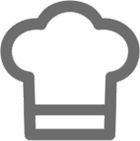
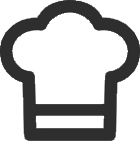
responsive header

diff --git a/Code/index.html b/Code/index.html
@@ -18,19 +18,19 @@
             <ul class="menue">
                 <li class="menuepunkt" id="punkt1">
                     <a href="index.html" class="menuetext">Startseite</a>
-                    <a class="menuepunktIcon" href="index.html" class="menuetext"><img src="Bilder/icon_startseite_black.png" alt="Startseite"></a>
+                    <a class="menuepunktIcon" href="index.html" class="menuetext"><img src="Bilder/icon_startseite.png" alt="Startseite"></a>
                 </li>
                 <li class="menuepunkt" id="punkt2">
                     <a href="favoriten.html" class="menuetext">Favoriten</a>
-                    <a class="menuepunktIcon" href="favoriten.html" class="menuetext"><img src="Bilder/icon_favoriten_black.png" alt="Favoriten"></a>
+                    <a class="menuepunktIcon" href="favoriten.html" class="menuetext"><img src="Bilder/icon_favoriten.png" alt="Favoriten"></a>
                 </li>
                 <li class="menuepunkt" id="punkt3">
                     <a href="meine-rezepte.html" class="menuetext">Meine Rezepte</a>
-                    <a class="menuepunktIcon" href="meine-rezepte.html" class="menuetext"><img src="Bilder/icon_myRecipes_black.png" alt="Meine Rezepte"></a>
+                    <a class="menuepunktIcon" href="meine-rezepte.html" class="menuetext"><img src="Bilder/icon_myRecipes.png" alt="Meine Rezepte"></a>
                 </li>
                 <li class="menuepunkt" id="punkt4">
                     <a href="login.html" class="menuetext">Abmelden</a>
-                    <a class="menuepunktIcon" href="login.html" class="menuetext"><img src="Bilder/icon_logout_black.png" alt="Abmelden"></a>
+                    <a class="menuepunktIcon" href="login.html" class="menuetext"><img src="Bilder/icon_logout.png" alt="Abmelden"></a>
                 </li>
             </ul>
         </nav>
@@ -42,8 +42,8 @@
             <img class="headerBild" src="Bilder/rezeptBild.jpg" alt="Wallpaper">
 
             <div class="textContainer">
-                <h1 class="ueberschrift">Entdecken, Probieren, miteinander Teilen</h1>
-                <p class="textkoerper">Entdecke die vielfältigen Rezepte der foodmood-Community und lasse dich von unserer Rezepteübersicht zu neuen Kreationen Inspirieren. </p>
+                <h1 class="ueberschrift">Entdecken, probieren, miteinander teilen</h1>
+                <p class="textkoerper">Entdecke die vielfältigen Rezepte der foodmood-Community und lasse dich von unserer Rezepteübersicht zu neuen Kreationen inspirieren. </p>
                 <div class="buttonContainer">
                     <a href="#rezeptuebersicht">
                         <div class="button">zur rezeptübersicht</div>

diff --git a/Code/favoriten.html b/Code/favoriten.html
@@ -18,19 +18,19 @@
             <ul class="menue">
                 <li class="menuepunkt" id="punkt1">
                     <a href="index.html" class="menuetext">Startseite</a>
-                    <a class="menuepunktIcon" href="index.html" class="menuetext"><img src="Bilder/icon_startseite_black.png" alt="Startseite"></a>
+                    <a class="menuepunktIcon" href="index.html" class="menuetext"><img src="Bilder/icon_startseite.png" alt="Startseite"></a>
                 </li>
                 <li class="menuepunkt" id="punkt2">
                     <a href="favoriten.html" class="menuetext">Favoriten</a>
-                    <a class="menuepunktIcon" href="favoriten.html" class="menuetext"><img src="Bilder/icon_favoriten_black.png" alt="Favoriten"></a>
+                    <a class="menuepunktIcon" href="favoriten.html" class="menuetext"><img src="Bilder/icon_favoriten.png" alt="Favoriten"></a>
                 </li>
                 <li class="menuepunkt" id="punkt3">
                     <a href="meine-rezepte.html" class="menuetext">Meine Rezepte</a>
-                    <a class="menuepunktIcon" href="meine-rezepte.html" class="menuetext"><img src="Bilder/icon_myRecipes_black.png" alt="Meine Rezepte"></a>
+                    <a class="menuepunktIcon" href="meine-rezepte.html" class="menuetext"><img src="Bilder/icon_myRecipes.png" alt="Meine Rezepte"></a>
                 </li>
                 <li class="menuepunkt" id="punkt4">
                     <a href="login.html" class="menuetext">Abmelden</a>
-                    <a class="menuepunktIcon" href="login.html" class="menuetext"><img src="Bilder/icon_logout_black.png" alt="Abmelden"></a>
+                    <a class="menuepunktIcon" href="login.html" class="menuetext"><img src="Bilder/icon_logout.png" alt="Abmelden"></a>
                 </li>
             </ul>
         </nav>

diff --git a/Code/meine-rezepte.html b/Code/meine-rezepte.html
@@ -16,19 +16,19 @@
             <ul class="menue">
                 <li class="menuepunkt" id="punkt1">
                     <a href="index.html" class="menuetext">Startseite</a>
-                    <a class="menuepunktIcon" href="index.html" class="menuetext"><img src="Bilder/icon_startseite_black.png" alt="Startseite"></a>
+                    <a class="menuepunktIcon" href="index.html" class="menuetext"><img src="Bilder/icon_startseite.png" alt="Startseite"></a>
                 </li>
                 <li class="menuepunkt" id="punkt2">
                     <a href="favoriten.html" class="menuetext">Favoriten</a>
-                    <a class="menuepunktIcon" href="favoriten.html" class="menuetext"><img src="Bilder/icon_favoriten_black.png" alt="Favoriten"></a>
+                    <a class="menuepunktIcon" href="favoriten.html" class="menuetext"><img src="Bilder/icon_favoriten.png" alt="Favoriten"></a>
                 </li>
                 <li class="menuepunkt" id="punkt3">
                     <a href="meine-rezepte.html" class="menuetext">Meine Rezepte</a>
-                    <a class="menuepunktIcon" href="meine-rezepte.html" class="menuetext"><img src="Bilder/icon_myRecipes_black.png" alt="Meine Rezepte"></a>
+                    <a class="menuepunktIcon" href="meine-rezepte.html" class="menuetext"><img src="Bilder/icon_myRecipes.png" alt="Meine Rezepte"></a>
                 </li>
                 <li class="menuepunkt" id="punkt4">
                     <a href="login.html" class="menuetext">Abmelden</a>
-                    <a class="menuepunktIcon" href="login.html" class="menuetext"><img src="Bilder/icon_logout_black.png" alt="Abmelden"></a>
+                    <a class="menuepunktIcon" href="login.html" class="menuetext"><img src="Bilder/icon_logout.png" alt="Abmelden"></a>
                 </li>
             </ul>
         </nav>
